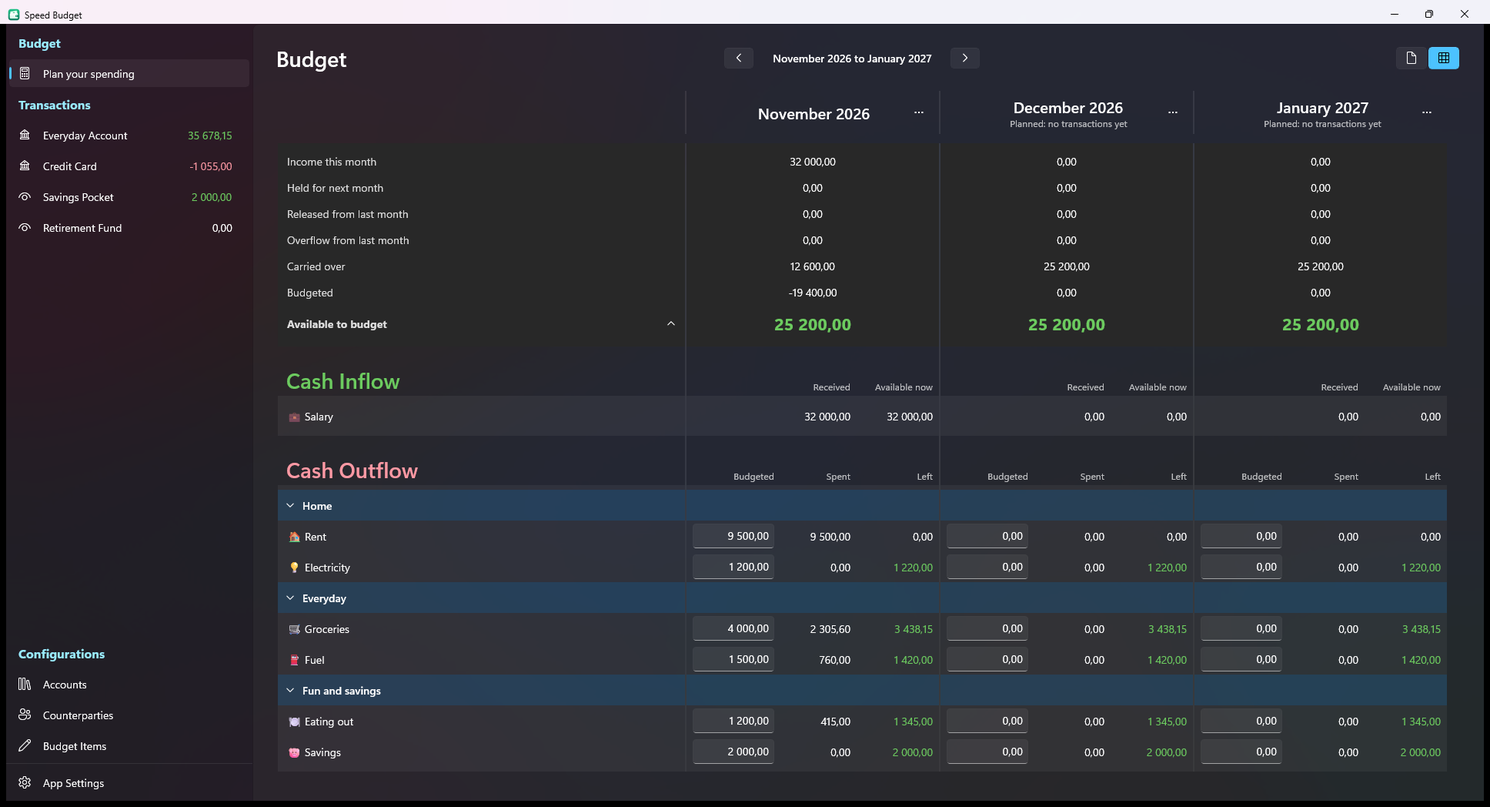
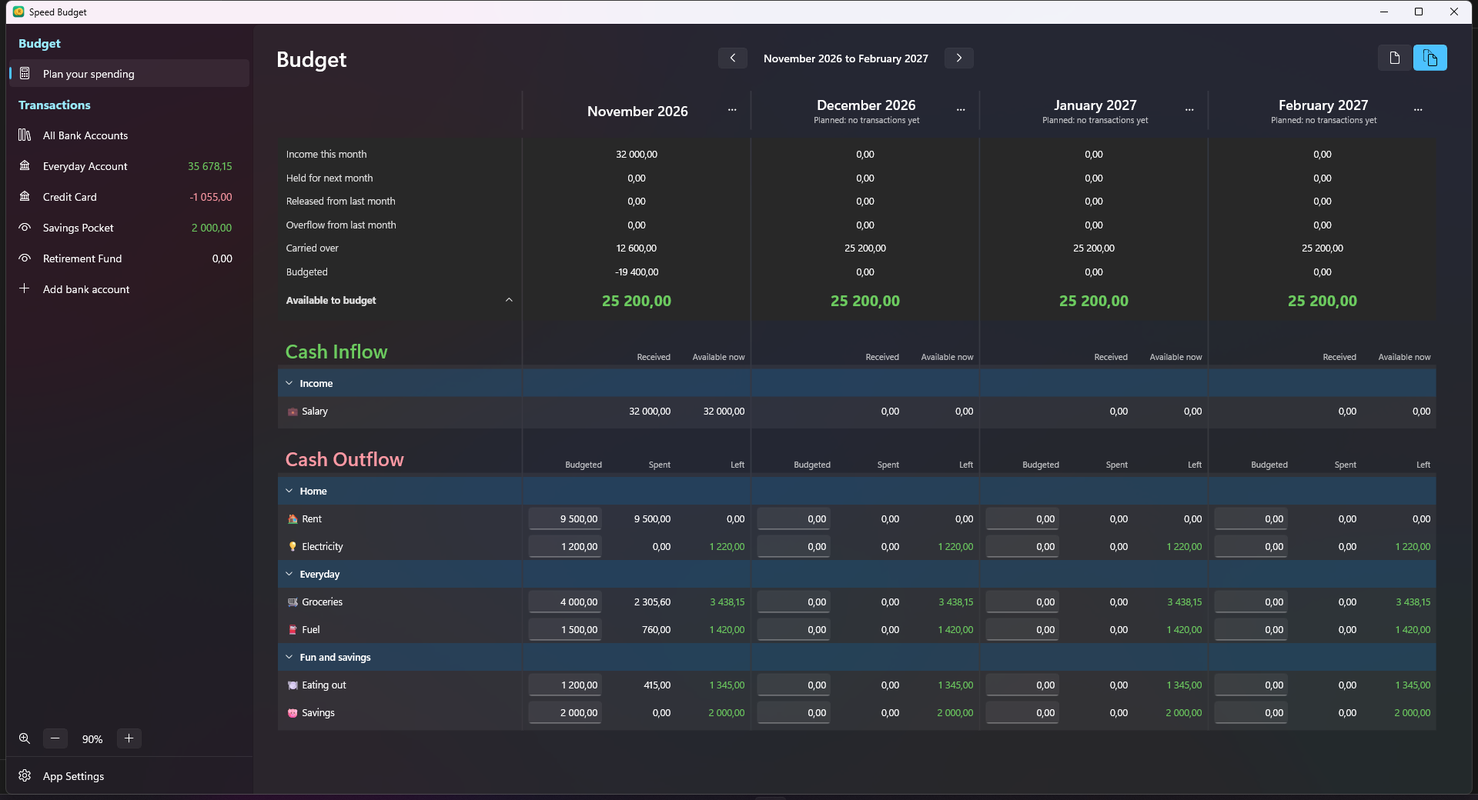
README: bring it up to date and add screenshots of the current app
Retake every screenshot on example data, add pictures for the wizard, budget moves, filters, splits, expected transactions, month lines, settings and shortcuts, drop the pictures of screens that no longer exist, and correct the text (shortcuts, backups, where things are managed).

diff --git a/README.md b/README.md
@@ -6,6 +6,47 @@ they happen, and see at a glance what is left on every budget item. Everything s
 > Speed Budget is a pre-release (version 0.9). It works and is in daily use, but expect rough edges, and keep
 > backups of anything you care about (the app makes one for you every day).
 
+![The Budget screen showing four months side by side](docs/images/budget.png)
+
+## Contents
+
+- [What it does](#what-it-does)
+- [A look at the app](#a-look-at-the-app)
+- [Install](#install)
+- [First time you open it](#first-time-you-open-it)
+- [How it works](#how-it-works)
+- [Everyday use](#everyday-use)
+- [Keyboard shortcuts](#keyboard-shortcuts)
+- [Your data, backups and settings](#your-data-backups-and-settings)
+- [What is not there yet](#what-is-not-there-yet)
+- [Questions and problems](#questions-and-problems) · [Licence](#licence) · [For developers](#for-developers)
+
+## What it does
+
+- **Plan every month.** Give each budget item an amount, see what was spent and what is left, and look up to a year
+  ahead. Several months sit side by side.
+- **Months you draw yourself.** A month starts where you put its line in the transaction list (say, on payday), not on
+  the 1st.
+- **Left over carries over.** Money left on an item moves to the next month on the same item. Overspend an item and the
+  shortfall comes out of the next month's money still to be assigned.
+- **Fast transaction entry.** Add a row, pick the counterparty and the app fills in the budget item and account you last
+  used with it. Edit any row in place. Type sums such as `1200+350` into any amount.
+- **Split transactions** over several budget items, and **transfers** between accounts.
+- **Budget accounts and tracking accounts.** A cheque or savings account takes part in the budget. A retirement fund or
+  home loan can be tracked on the side without touching the budget.
+- **Move and cover money.** Allocate what is available to an item, move what is left from one item to another, or cover an
+  overspent item from items that have money left.
+- **Hold income for next month,** so you budget with money you already have.
+- **Expected transactions.** Note down what you expect but has not happened yet, without changing any balance.
+- **Filter like in Excel,** see everything in **All Bank Accounts**, and press any Received or Spent figure on the Budget
+  screen to see the transactions behind it.
+- **Undo and redo** (`Ctrl+Z`, `Ctrl+Y`) on any screen.
+- **Zoom** from 50% to 200%, remembered separately for the Budget and the transaction screens. Everything shrinks to fit a
+  narrow window, so it sits comfortably beside your banking website.
+- **Safe by default.** One file on your PC, an automatic backup every day, restore from any backup, CSV and JSON export,
+  and no account or internet connection needed.
+- **Updates itself.** A bar tells you when a new version is out and shows what changed before you update.
+
 ## A look at the app
 
 *The pictures use made-up example data.*
@@ -13,53 +54,94 @@ they happen, and see at a glance what is left on every budget item. Everything s
 ### Getting started
 
 **First time you open it.** A short setup wizard helps you create your bank accounts, budget groups and items, and the
-counterparties you deal with most. You can start from a typical household list, a short minimal list, or empty.
+counterparties you deal with most. You can start from a typical household list, a short minimal list, or empty. Nothing is
+saved until the last step.
 
 ![The setup wizard on first run](docs/images/wizard.png)
 
+![The wizard's bank accounts step](docs/images/wizard-accounts.png)
+
+![The wizard's budget groups and items step, with a household template to tick and edit](docs/images/wizard-items.png)
+
 ### Plan your spending
 
-Give every budget item an amount for the month, and see what was spent and what is left. Several months sit side by
-side, and the figures at the top show what you still have available to budget.
+Give every budget item an amount for the month, and see what was spent and what is left (green when there is money left,
+red when overspent). The figures at the top show what you still have available to budget, and the Cash Inflow and Cash
+Outflow sections list your income and your spending groups.
 
-![The Budget screen showing three months side by side](docs/images/budget.png)
+![The Budget screen showing four months side by side](docs/images/budget.png)
+
+**Hold, allocate, move and cover.** Right-click **Available to budget** to allocate some of it to an item, or to hold part
+of it for next month. Right-click a **Left** figure to move money from that item to another one (or to cover an overspent
+item from items that have money left). Each box leads with the figure it is about, in green for money there is and red for a
+shortfall.
+
+![Right-clicking Available to budget to allocate or hold money](docs/images/hold-menu.png)
+
+![The Move budget dialog](docs/images/move-budget.png)
 
 ### Transactions
 
-Each bank account has its own page with its balances, month lines that show where each budget month starts, and a table
-you edit in place with the pencil at the end of a row.
+Each bank account has its own page with its balances (cleared, uncleared and available), month lines that show where each
+budget month starts, and a table you edit in place. The strip at the top can pin up to five budget items so you can see
+what is left on them while you work.
 
 ![A bank account's recorded transactions](docs/images/transactions.png)
 
-Press a row's pencil and its cells become boxes. Pick a budget item from the drop-down, which shows what is left on each
-item, or split the transaction between several items.
+**All Bank Accounts** shows every account together, with an Account column to tell them apart, and transfers appear on both
+sides.
+
+![All Bank Accounts](docs/images/all-accounts.png)
+
+**Edit in place.** Press a row's pencil and its cells become boxes. Pick a budget item from the drop-down, which shows what
+is left on each item, or type to search.
 
 ![Editing a transaction in place and choosing its budget item](docs/images/editing.png)
 
-Accounts such as a retirement fund can be tracked without affecting the budget. They are labelled as tracking accounts and
-have no budget item column.
+**Counterparties are managed where you use them.** Each has a pencil (rename it, change its icon) and a bin in the
+drop-down, and typing a new name adds it on the spot.
+
+![The counterparty drop-down with edit and delete buttons](docs/images/counterparty-dropdown.png)
+
+**Split a transaction** between several budget items, for example a supermarket trip that was part groceries and part
+household goods. The lines must add up to the total.
+
+![Splitting a transaction between several items](docs/images/split.png)
+
+**Filter every column.** Press the small funnel on a column heading, tick the values you want (or search), and press OK.
+
+![Filtering the Counterparty column](docs/images/filter.png)
+
+**Month lines.** Select a month line to change the date it starts, move it up or down, or delete it. The panel slides in over
+the table.
+
+![The month line panel](docs/images/month-line.png)
+
+**Expected transactions.** The bar along the bottom of every account opens a list of what you expect but has not happened
+yet. Nothing in it changes a balance or the budget. When one happens, move it into the table and give it a date.
+
+![The Expected transactions panel](docs/images/expected.png)
+
+**Tracking accounts.** Accounts such as a retirement fund can be tracked without affecting the budget. They are labelled
+*Tracking account* and have no budget item column.
 
 ![A tracking account's page](docs/images/tracking-account.png)
 
-### Configurations
+**Add a bank account** from the left panel: give it a name, a type, whether it counts toward the budget, and its opening
+balance. Right-click an account for **Edit account**, **Close account** or **Delete account**.
 
-**Accounts.** Add your bank accounts, and choose for each whether it counts toward the budget or is only tracked.
-
-![The Accounts screen](docs/images/accounts.png)
-
-**Counterparties.** See who you pay and who pays you, and rename a counterparty everywhere it is used.
-
-![The Counterparties screen](docs/images/counterparties.png)
-
-**Budget Items.** Organise your budget into groups of items and income, and drag items between groups.
-
-![The Budget Items screen](docs/images/budget-items.png)
+![The Add a bank account dialog](docs/images/add-account.png)
 
 ### App Settings
 
-Choose how the side panel behaves, back up and export your data, check for updates and more.
+Choose how the side panel behaves, back up and restore your data, export it, check for updates and more. A **Show keyboard
+shortcuts** button opens the full list.
 
 ![The App Settings screen](docs/images/settings.png)
+
+![The rest of App Settings: export, reset, updates and about](docs/images/settings-more.png)
+
+![The keyboard shortcuts list](docs/images/shortcuts.png)
 
 ## Install
 
@@ -73,13 +155,15 @@ Choose how the side panel behaves, back up and export your data, check for updat
 You need 64-bit Windows 10 (version 1809 or later) or Windows 11.
 
 **Updates are automatic.** When a newer version is released, a bar appears at the top of the app. Press
-**What's changed** to read what is new first, then **Update and restart**. The app takes a backup of your data first, and an update never changes your budget.
+**What's changed** to read what is new first, then **Update and restart**. The app takes a backup of your data first, and an
+update never changes your budget. The full list of changes is in [CHANGELOG.md](CHANGELOG.md) and in the app under
+**App Settings > About > Change log**.
 
 **To uninstall,** use Settings > Apps > Installed apps in Windows. This removes the program but keeps your data.
 
 ## First time you open it
 
-A short setup wizard starts by itself. It helps you create:
+A short setup wizard starts by itself (five steps). It helps you create:
 
 - your **bank accounts**, and whether each is a *budget account* (money you budget with, like a cheque or savings
   account) or a *tracked account* (outside your budget, like a retirement fund or a home loan);
@@ -89,13 +173,13 @@ A short setup wizard starts by itself. It helps you create:
 Nothing is saved until the last step, you can change everything later, and you can run the wizard again from
 **App Settings** (it only adds what is missing).
 
-Your budget has a **start date**. It begins as the first day of the current month, and the first "(month) starts here" line
-at the bottom of the transactions table is where it sits. Nothing in the budget can be dated before it. If you add or edit a
-transaction dated earlier, Speed Budget asks whether to start the budget from that month instead, and adds the months in
-between. You can also select that first line and choose a different start date: an earlier one adds the months in between
-(what you have already budgeted stays where it is), a later one is allowed while no transaction or month line comes before it.
-The date and the month are separate: a budget that starts on 24 October can be the start of November. Select the first
-line and choose both the date it starts on and the budget month that the transactions after it belong to.
+Your budget has a **start date**. It begins as the first day of the current month, and the first "(month) budget month
+starts here" line at the top of the transactions table is where it sits. Nothing in the budget can be dated before it. If
+you add or edit a transaction dated earlier, Speed Budget asks whether to start the budget from that month instead, and adds
+the months in between. You can also select that first line and choose a different start date: an earlier one adds the months
+in between (what you have already budgeted stays where it is), a later one is allowed while no transaction or month line
+comes before it. The date and the month are separate: a budget that starts on 24 October can be the start of November.
+Select the first line and choose both the date it starts on and the budget month that the transactions after it belong to.
 
 ## How it works
 
@@ -104,13 +188,16 @@ line and choose both the date it starts on and the budget month that the transac
 - **Transactions** are what actually happens: money out or money in, on a date, with a **counterparty** (who it was
   with: the shop, the person, your employer) and the budget item it counts against.
 - **Months are drawn by you, not by the calendar.** In the transaction list there is a line that says
-  "*February 2027 starts here*" (with the solid line on the side of that month's own transactions, so it sits above the
-  text when the newest is first and below it when the oldest is first). Everything after the line belongs to that month. If your pay arrives on the 25th, put
-  the line there. You can drag the line to move it. If you forget a line, no month is lost: the Budget screen still shows
-  every month between your lines, and you can budget for it.
+  "*February 2027 budget month starts here* on 24 January 2027". Everything after the line belongs to that month. If your
+  pay arrives on the 25th, put the line there. You can drag the line to move it. If you forget a line, no month is lost: the
+  Budget screen still shows every month between your lines, and you can budget for it.
 - On the **Budget** screen you give each item an amount for the month. The screen shows what you budgeted, what you
   spent and what is **left**. Money left on an item carries over to the next month on that same item. If you overspend an
   item, the shortfall comes out of the next month's money still to be assigned.
+- **Budget accounts and tracking accounts.** Every transaction in a budget account counts against a budget item. A tracking
+  account only records its own transactions and balance. A transfer between a budget account and a tracking account counts
+  as spending or income against a budget item you choose, and a transfer between two budget accounts (or two tracking
+  accounts) needs no budget item.
 
 ## Everyday use
 
@@ -119,76 +206,124 @@ record, dated today, ready to fill in. Pick the counterparty (the app fills in t
 with it), choose the budget item, and type an **outflow** (money out) or **inflow** (money in). Press `Enter` to save the
 row, or `Esc` to throw it away. Typing a new counterparty or budget item adds it on the spot. Tick **Cleared** once the
 transaction has shown on your bank statement. If the row is dated on the day a month starts, you are asked which month it
-belongs to.
+belongs to. In every money box you can type either a point or a comma as the decimal mark, and sums such as `3.5+1.5` or
+`1 250 + 350` work too.
 
 **Move money between accounts.** Press **New Transfer** for a new row in the same way: the Account box is the account the
-money leaves (or arrives in, if you type an inflow) and the Counterparty box is the other account. A transfer between a
-budget account and a tracked account counts as spending or income against a budget item you choose.
+money leaves (or arrives in, if you type an inflow) and the Counterparty box is the other account. Both sides share the
+date, memo and amount, and change together when you edit either.
 
-**Edit a transaction in place.** Press the pencil at the end of a row in the recorded transactions table and its cells turn into boxes (clicking a value only highlights the row): change the
-date, counterparty, memo, budget item, account, outflow, inflow or bank date right there. This works for transfers too: their Counterparty box picks the account on the other side, and the date, memo and amount change on both sides together. The
-Press Enter in a box, or click another row, to save your changes; press Esc, or click outside the table, to cancel them and put the row back as it was. At the end of every row a yellow pencil turns edit mode on for it (while editing it becomes a green tick that saves the row), and the bin deletes the transaction. The table has a **Memo** column for a note on each transaction.
+**Edit a transaction in place.** Press the pencil at the end of a row and its cells turn into boxes (clicking a value only
+highlights the row): change the date, counterparty, memo, budget item, account, outflow, inflow or bank date right there.
+Press `Enter` to save, or `Esc` to put the row back as it was. The pencil becomes a green tick while editing, and the bin
+deletes the transaction. You can also right-click a row for **Edit** and **Delete** (**Save** and **Delete** while it is
+being edited).
 
 **Split a transaction.** Open a transaction's budget item drop-down and choose **Split between several items**, then give
 each item its share; the shares must add up to the transaction's amount. A split transaction shows "Split (2 lines)", and
-pressing that opens the split again. You can also split while adding a new transaction. To turn a split back into an ordinary transaction, open its drop-down and choose a single item.
-
-**Side panel.** In App Settings, under **User Interface**, choose **Expanded** (the full left panel), **Expand on hover only** (the default: a strip of icons that opens while the pointer is over it) or **Collapsed** (always the strip of icons).
-
-**Resize the table.** Drag the divider on the right of a column heading in the recorded transactions table: as in Word, the divider moves between that column and the one next to it, so the table keeps its width and its place. If the next column is already as narrow as it can go, the divider carries on into the columns beyond it. Hold **Shift** while dragging to change just that column and move everything to its right along with it (the table scrolls sideways if it gets wider than the window). Your sizes are remembered. Selecting a month line opens a panel over the table from the right edge, for
-changing its date; drag its left edge to resize it, and close it with the X or Esc.
+pressing that shows its lines. You can also split while adding a new transaction. To turn a split back into an ordinary
+transaction, open its drop-down and choose a single item.
 
 **Bank date.** The table shows each transaction's date and, beside it, the date it showed on your bank statement. Entering a
-bank date on a transaction also marks it as cleared.
+bank date on a transaction also marks it as cleared. Use **Hide cleared** and the **Oldest first / Newest first** box above
+the table to focus on what is still open.
+
+**Filter and see what makes up a figure.** Every column heading has a funnel for filtering, like in Excel (a filtered column's
+funnel turns gold, and a **Clear filters** button appears). On the Budget screen, press a figure in the **Received** or **Spent** column and All Bank Accounts
+opens showing only the transactions that make up that figure.
+
+**Plan your budget.** Open **Plan your spending** (under the Budget heading in the left panel). Click an amount to edit it:
+`Enter` saves and leaves the cell, `Esc` cancels, the arrow keys move between cells, and you can type sums such as
+`1200+350`. Months ahead are shown as planned, so you can fill them in early (the budget looks 12 months ahead). Use the two
+buttons at the top right to see one month or several. Press the months at the top to pick a month and year and jump straight
+to it, and a small calendar button takes you back to the month you are recording transactions for.
 
 **Start a new month.** When your month rolls over, press **Start a new month** (or `Ctrl+M`), give the month a name and a
-start date, and a line appears in the list. Drag it up or down to fine-tune, select it and use `Alt+Up` / `Alt+Down`, or select it and change the date it starts on. If you add a transaction or transfer on the very day a month starts, the app asks which month it belongs to, because that day could be either.
+start date, and a line appears in the list. Drag it up or down to fine-tune, select it and use `Alt+Up` / `Alt+Down`, or
+select it and change the date it starts on. If you add a transaction or transfer on the very day a month starts, the app
+asks which month it belongs to, because that day could be either.
 
-**Plan your budget.** Open **Plan your spending** (under the Budget heading in the left panel). Click an amount to edit it: `Enter` saves and leaves the cell, `Esc` cancels, the arrow
-keys move between cells, and you can type sums such as `1200+350`. Months ahead are shown as planned, so you can fill
-them in early. Use the two buttons at the top right to see one month or several. Press the months at the top to pick a month and
-year and jump straight to it, and when the current month is not the leftmost one, a small calendar button appears next to the arrows
-to bring you back to it.
+**Move money around the budget.** Right-click **Available to budget**: when it is green you can **allocate** some of it to
+any item or **hold it for next month**; when it is red you can **cover** the shortfall from items that have money left.
+Right-click a **Left** figure: when green, move some of it to another item; when red, cover it from another item. A small
+flag beside Available to budget shows that money is held.
 
-**Hold income for next month.** Right-click an income item and choose **Hold for next month** to keep part of
-this month's pay for next month, so you budget with money you already have.
+**Hold income for next month.** Hold part of this month's pay so that it becomes available the following month instead. The
+month shows how much was held and how much was released into it.
 
 **Watch the items that matter.** The strip at the top of the Transactions screens can show up to five budget items
 with what is left on each. Press **+** to add one, click one to jump to it on the Budget screen, and right-click one to
 remove it.
 
-**Balances at a glance.** Under Transactions in the left panel, each account shows its available balance: green when it is above
-zero, red when below, and plain when zero.
+**Balances at a glance.** Under Transactions in the left panel, each account shows its available balance: green when it is
+above zero, red when below, and plain when zero. Each account page shows its cleared balance, its uncleared transactions and
+its available balance.
 
-**Tidy up.** The **Configurations** section lists Accounts, Counterparties and Budget Items. Right-click a budget item or a
-counterparty anywhere to edit it, drag items to reorder them, and pick an icon for each item.
+**Manage things where you use them.** There are no separate setup pages to hunt through:
+- Right-click a **budget item** or **budget group** on the Budget screen to rename it, change its icon, add an item to it or
+  delete it. Drag items and groups to reorder them. An item that has ever been used can't be deleted, and you are told why.
+- **Counterparties** are renamed and deleted in the counterparty drop-down (one that transactions use can't be deleted).
+- **Add bank account** at the bottom of the account list adds an account. Right-click an account to edit it, close it (it stays
+  in the list, dimmed, with its history) or delete it if it has no transactions. Drag accounts to reorder them.
+
+**Zoom.** `Ctrl` and `+` or `-` (or `Ctrl` and the mouse wheel) zoom the screen you are on from 50% to 200%, and `Ctrl+0`
+goes back to 100%. The Budget and the bank account transactions each remember their own zoom. Everything else stays at
+normal size, and the pinned strip, headings and buttons shrink to fit a narrow window.
+
+**Undo and redo.** `Ctrl+Z` undoes your last change to anything you can edit, on any screen (an amount, a transaction, a
+budget move, a counterparty, an item, an account), and `Ctrl+Y` redoes it.
+
+**Side panel.** In App Settings, under **User Interface**, choose **Expanded** (the full left panel), **Expand on hover
+only** (the default: a strip of icons that opens while the pointer is over it) or **Collapsed** (always the strip of icons).
+
+**Resize the table.** Drag the divider on the right of a column heading in the recorded transactions table: as in Word, the
+divider moves between that column and the one next to it, so the table keeps its width and its place. Hold **Shift** while
+dragging to change just that column and move everything to its right along with it (the table scrolls sideways if it gets
+wider than the window). Your sizes are remembered. Selecting a month line opens a panel over the table from the right edge,
+for changing its date; drag its left edge to resize it, and close it with the X or `Esc`.
 
 ## Keyboard shortcuts
 
+The full list is under **App Settings > Show keyboard shortcuts**.
+
 | Keys | What it does |
 |---|---|
-| `Ctrl+1` ... `Ctrl+5` | Go to Budget, Transactions, Accounts, Counterparties, Budget Items |
+| `Ctrl+1` / `Ctrl+2` | Open Plan your spending / the first account |
 | `Ctrl+N` | New transaction |
 | `Ctrl+M` | Start a new month |
+| `Enter` / `Esc` | Save / drop the changes to the row (or amount) being edited |
 | `Alt+Up` / `Alt+Down` | Move the selected month line |
-| `Enter` / `Esc` / arrows | Save, cancel, and move between cells when editing the budget |
+| `Ctrl+Z` / `Ctrl+Y` (or `Ctrl+Shift+Z`) | Undo / redo |
+| `Ctrl+` `+` / `-` / `0` | Zoom in, zoom out, back to 100% |
+| `Up` / `Down` in the budget | Move to the cell above or below |
+| `Down`, `Enter`, `Ctrl+Enter` in a drop-down | Move to the list, choose the first match, or always add what was typed as new |
+| `Shift` + drag a column divider | Resize a column and move the rest of the table along |
 
 ## Your data, backups and settings
 
-Everything is kept in a single file on your PC, in `%LocalAppData%\SpeedBudget-Data` (the program itself is in `SpeedBudget-App` beside it). There is no account and nothing is sent
-anywhere. The **App Settings** screen (bottom left) lets you:
+Everything is kept in a single file on your PC, in `%LocalAppData%\SpeedBudget-Data` (the program itself is in
+`SpeedBudget-App` beside it). There is no account and nothing is sent anywhere, apart from the check for new versions.
+A short `README.txt` in the data folder explains what is in it. The **App Settings** screen (bottom left) lets you:
 
-- **Back up now.** A backup is also made automatically each day the app opens, and the newest 14 are kept.
-  To restore one, close the app and copy it over `budget.db` in the data folder.
+- **Back up now.** A backup is also made automatically once a day, when the app opens, and the newest 31 automatic backups
+  are kept. Backups you make yourself are never deleted. **Restore a backup...** lists them and puts one back (your current data is saved as a manual
+  backup first), and **Open backups folder** shows where they are.
 - **Export** your transactions to CSV (opens in Excel or Google Sheets) or everything to JSON.
 - **Run the setup wizard** again to add more accounts, items or counterparties.
 - **Reset the app** to a clean slate. This deletes everything (a backup is saved first), and the setup wizard runs again.
 - **Check for updates**, or point the app at a different update source.
+- Open the **Change log** from the About section to read what changed in every version.
+
+To move your budget to another computer, copy the data folder (or keep it in OneDrive).
+
+If something goes wrong, `activity.log` in the data folder holds the last things the app did and `crash.log` records each
+failure, so a problem can be looked into.
 
 ## What is not there yet
 
-Syncing a budget between several devices, and phone and tablet apps, are planned but not built. For now the budget lives
-on the one PC.
+Syncing a budget between several devices, several budgets with their own accounts, and phone and tablet apps are planned
+but not built. For now the budget lives on the one PC. The data is already prepared for syncing, so nothing will need
+converting when it arrives.
 
 ## Questions and problems
 
@@ -201,5 +336,6 @@ budgeting; the source code may not be copied or reused without permission. See [
 
 ## For developers
 
-Building from source, running the tests and publishing releases are covered in
-[docs/DEVELOPING.md](docs/DEVELOPING.md). The original design notes are in [docs/PLAN.md](docs/PLAN.md).
+Speed Budget is a WinUI 3 app on .NET 10 with a SQLite database (EF Core). Building from source, running the tests and
+publishing releases are covered in [docs/DEVELOPING.md](docs/DEVELOPING.md). The original design notes are in
+[docs/PLAN.md](docs/PLAN.md).
